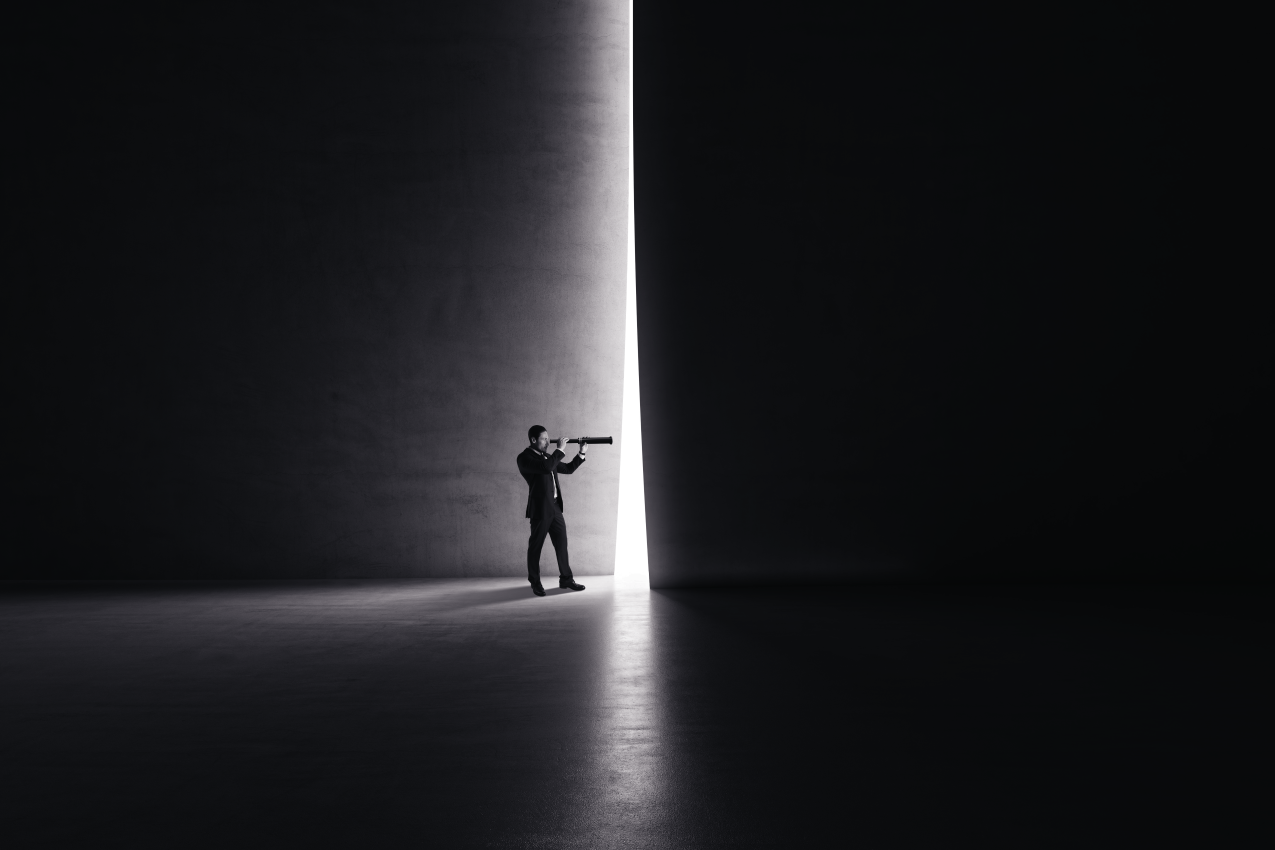
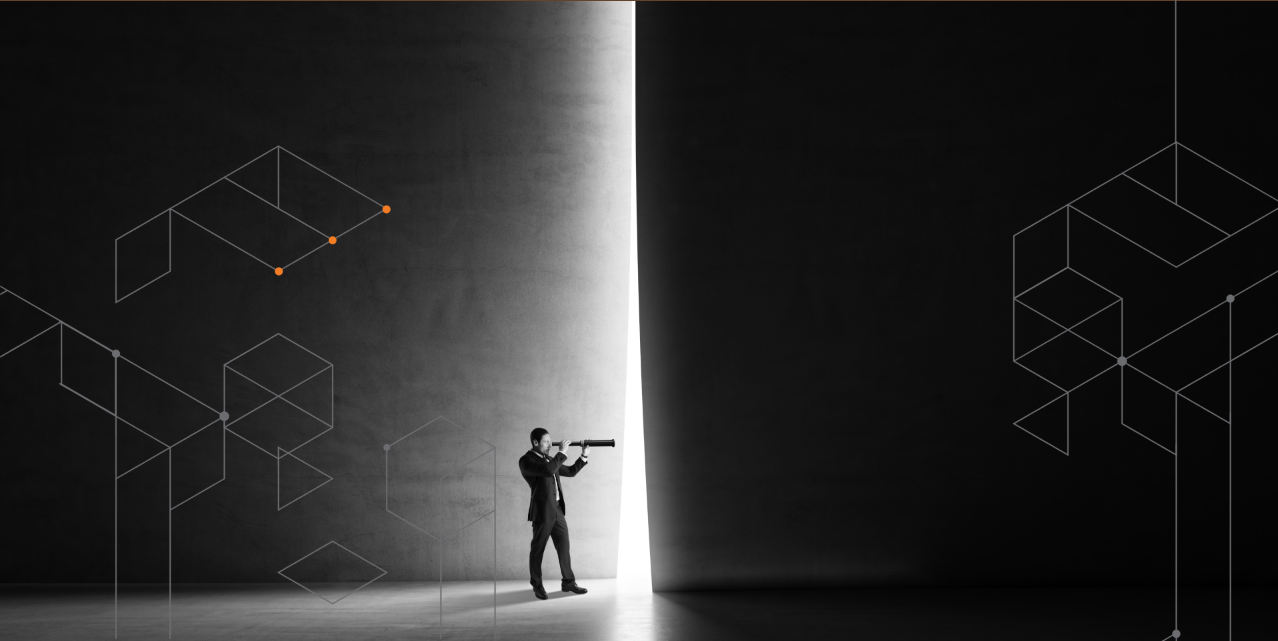
image changes made

diff --git a/index.html b/index.html
@@ -139,7 +139,7 @@ https://templatemo.com/tm-567-nomad-force
                         </div>
                     </div>
                 </div>
-                <div class="d-flex flex-row-reverse text-white signature">
+                <div class="d-flex flex-row-reverse signature" style="margin-top: -8%;">
                     <img src="images/signature.png">
                 </div>
             </section>
@@ -148,7 +148,7 @@ https://templatemo.com/tm-567-nomad-force
                 <div class="container" style="font-family: 'GothamLight'; text-align: justify; padding-bottom: 305px;">
                     <div class="row">
                         <div class="col-12">
-                            <p class="text-white" data-aos="fade-up" style="font-size: 50px; padding-top: 21px;">About Us</p>
+                            <p class="text-white" data-aos="fade-up" style="font-size: 50px; padding-top: 10%;">About Us</p>
                         </div>
                         <div class="col-lg-6 col-md-6 col-12">
                             <p class="text-white" data-aos="fade-up">
@@ -173,55 +173,53 @@ https://templatemo.com/tm-567-nomad-force
             <section class="news section-padding statement">
                 <div class="container">
                     <div class="row">
-                        <div style="padding: 12% 0%;">
-                            <div class="col-lg-12 col-12 mb-5 mb-lg-0 mt-5" data-aos="fade-up">
-                                <span class="rounded-0 vision" data-bs-toggle="tooltip" data-bs-html="true" data-bs-placement="right" 
-                                    title="<p>Vision</p>Our vision at Guru is to revolutionize the fit-out 
-                                    industry by setting new standards for quality, 
-                                    creativity, and customer satisfaction. We see every 
-                                    project as an opportunity to elevate experiences 
-                                    while striving to be at the forefront of innovation in 
-                                    the fit-out industry and constantly pushing the 
-                                    boundaries of what is possible in addition to 
-                                    delivering positive results for our clients. We 
-                                    envision a world where every space is functional, 
-                                    visually pleasing, and inspiring as it is our mission to 
-                                    bring this vision to life." style="color: #F57E25;">Vision
-                                </span>
-                            </div>
-                            <div class="col-lg-12 col-12 mb-5 mb-lg-0 mt-5" data-aos="fade-up">
-                                <span class="rounded-0 mission" data-bs-toggle="tooltip" data-bs-html="true" data-bs-placement="right" 
-                                    title="<p>Mission</p>At Guru, we are committed to delivering exceptional 
-                                    fit-out services that transform spaces into functional 
-                                    and aesthetically pleasing environments that cater 
-                                    to every budget. Our mission is to exceed the 
-                                    expectations of our clients through unparalleled 
-                                    workmanship, attention to detail, and a commitment 
-                                    to customer satisfaction." style="color: #F57E25;">Mission
-                                </span>
-                            </div>
-                            <div class="col-lg-12 col-12 mb-5 mb-lg-0 mt-5" data-aos="fade-up">
-                                <span type="button" class="btn btn-secondary rounded-0 goals" data-bs-toggle="tooltip" data-bs-html="true" data-bs-placement="right" 
-                                    title="<p>Goals</p>Our goal at Guru has remained the same since our 
-                                    inception and that’s to provide outstanding interior 
-                                    design and construction services, meeting clients' 
-                                    needs and exceeding their expectations. We achieve 
-                                    this by combining expert design with skilled 
-                                    craftsmanship, delivering projects on time, within 
-                                    budget, and to the highest quality standards while 
-                                    prioritizing safety. Our ultimate goal is to be a leader 
-                                    in the industry, building long-lasting relationships 
-                                    with our clients through our commitment to 
-                                    excellence." style="background-color: #494e5200; color: #F57E25; cursor: pointer; border: transparent;">
-                                    Goals
-                                </span>
-                            </div>
+                        <div class="col-lg-12 col-12 mb-5 mb-lg-0" data-aos="fade-up" style="margin-top: 19%;">
+                            <span class="rounded-0 vision" data-bs-toggle="tooltip" data-bs-html="true" data-bs-placement="right" 
+                                title="<p>Vision</p>Our vision at Guru is to revolutionize the fit-out 
+                                industry by setting new standards for quality, 
+                                creativity, and customer satisfaction. We see every 
+                                project as an opportunity to elevate experiences 
+                                while striving to be at the forefront of innovation in 
+                                the fit-out industry and constantly pushing the 
+                                boundaries of what is possible in addition to 
+                                delivering positive results for our clients. We 
+                                envision a world where every space is functional, 
+                                visually pleasing, and inspiring as it is our mission to 
+                                bring this vision to life." style="color: #F57E25;">Vision
+                            </span>
+                        </div>
+                        <div class="col-lg-12 col-12 mb-5 mb-lg-0" data-aos="fade-up">
+                            <span class="rounded-0 mission" data-bs-toggle="tooltip" data-bs-html="true" data-bs-placement="right" 
+                                title="<p>Mission</p>At Guru, we are committed to delivering exceptional 
+                                fit-out services that transform spaces into functional 
+                                and aesthetically pleasing environments that cater 
+                                to every budget. Our mission is to exceed the 
+                                expectations of our clients through unparalleled 
+                                workmanship, attention to detail, and a commitment 
+                                to customer satisfaction." style="color: #F57E25;">Mission
+                            </span>
+                        </div>
+                        <div class="col-lg-12 col-12 mb-5 mb-lg-0" data-aos="fade-up">
+                            <span type="button" class="btn btn-secondary rounded-0 goals" data-bs-toggle="tooltip" data-bs-html="true" data-bs-placement="right" 
+                                title="<p>Goals</p>Our goal at Guru has remained the same since our 
+                                inception and that’s to provide outstanding interior 
+                                design and construction services, meeting clients' 
+                                needs and exceeding their expectations. We achieve 
+                                this by combining expert design with skilled 
+                                craftsmanship, delivering projects on time, within 
+                                budget, and to the highest quality standards while 
+                                prioritizing safety. Our ultimate goal is to be a leader 
+                                in the industry, building long-lasting relationships 
+                                with our clients through our commitment to 
+                                excellence." style="background-color: #494e5200;color: #F57E25;cursor: pointer;border: transparent;">
+                                Goals
+                            </span>
                         </div>
                     </div>
                 </div>
             </section>
 
-            <section class="section-padding pb-0 bg-dark" id="services" style="padding-top: 4%;">
+            <section class="section-padding pb-0 bg-dark" id="services">
                 <div class="container mb-5 pb-lg-5">
                     <div class="row" style="text-align: justify;">
                         <div class="col-12">

diff --git a/css/templatemo-nomad-force.css b/css/templatemo-nomad-force.css
@@ -889,19 +889,17 @@ strong {
 }
 
 .statement{
-  background-image: url(/images/service.png); 
-  padding: 0px 0px 0px 0px;
-  background-position: center center;
-  background-repeat: no-repeat;
-  background-size: cover;
+  width: 100%;
+  height: 840px;
+  background-image: url(/images/service.png);
+  background-size: 100% 100%; 
 }
 
 .about{
+  width: 100%;
+  height: 662px;
   background-image: url(/images/about.png); 
-  padding: 400px 0px 23px 0px;
-  background-position: center center;
-  background-repeat: no-repeat;
-  background-size: cover;
+  background-size: 100% 100%; 
 }
 
 @media screen and (max-width:1799px) and (min-width:800px)
@@ -966,7 +964,7 @@ strong {
     color: #F57E25;
   }
   .vision{
-    margin-left: 400px;
+    margin-left: 382px;
     background-color: #494e5200;
     color: #F57E25;
     cursor: pointer;
@@ -980,7 +978,7 @@ strong {
   }
 
   .goals{
-    margin-left: 200px;
+    margin-left: 217px;
     background-color: #494e5200;
     color: #F57E25;
     cursor: pointer;
@@ -1005,6 +1003,7 @@ strong {
     color: #F57E25;
 
   }
+
 }
 
 .projects {
